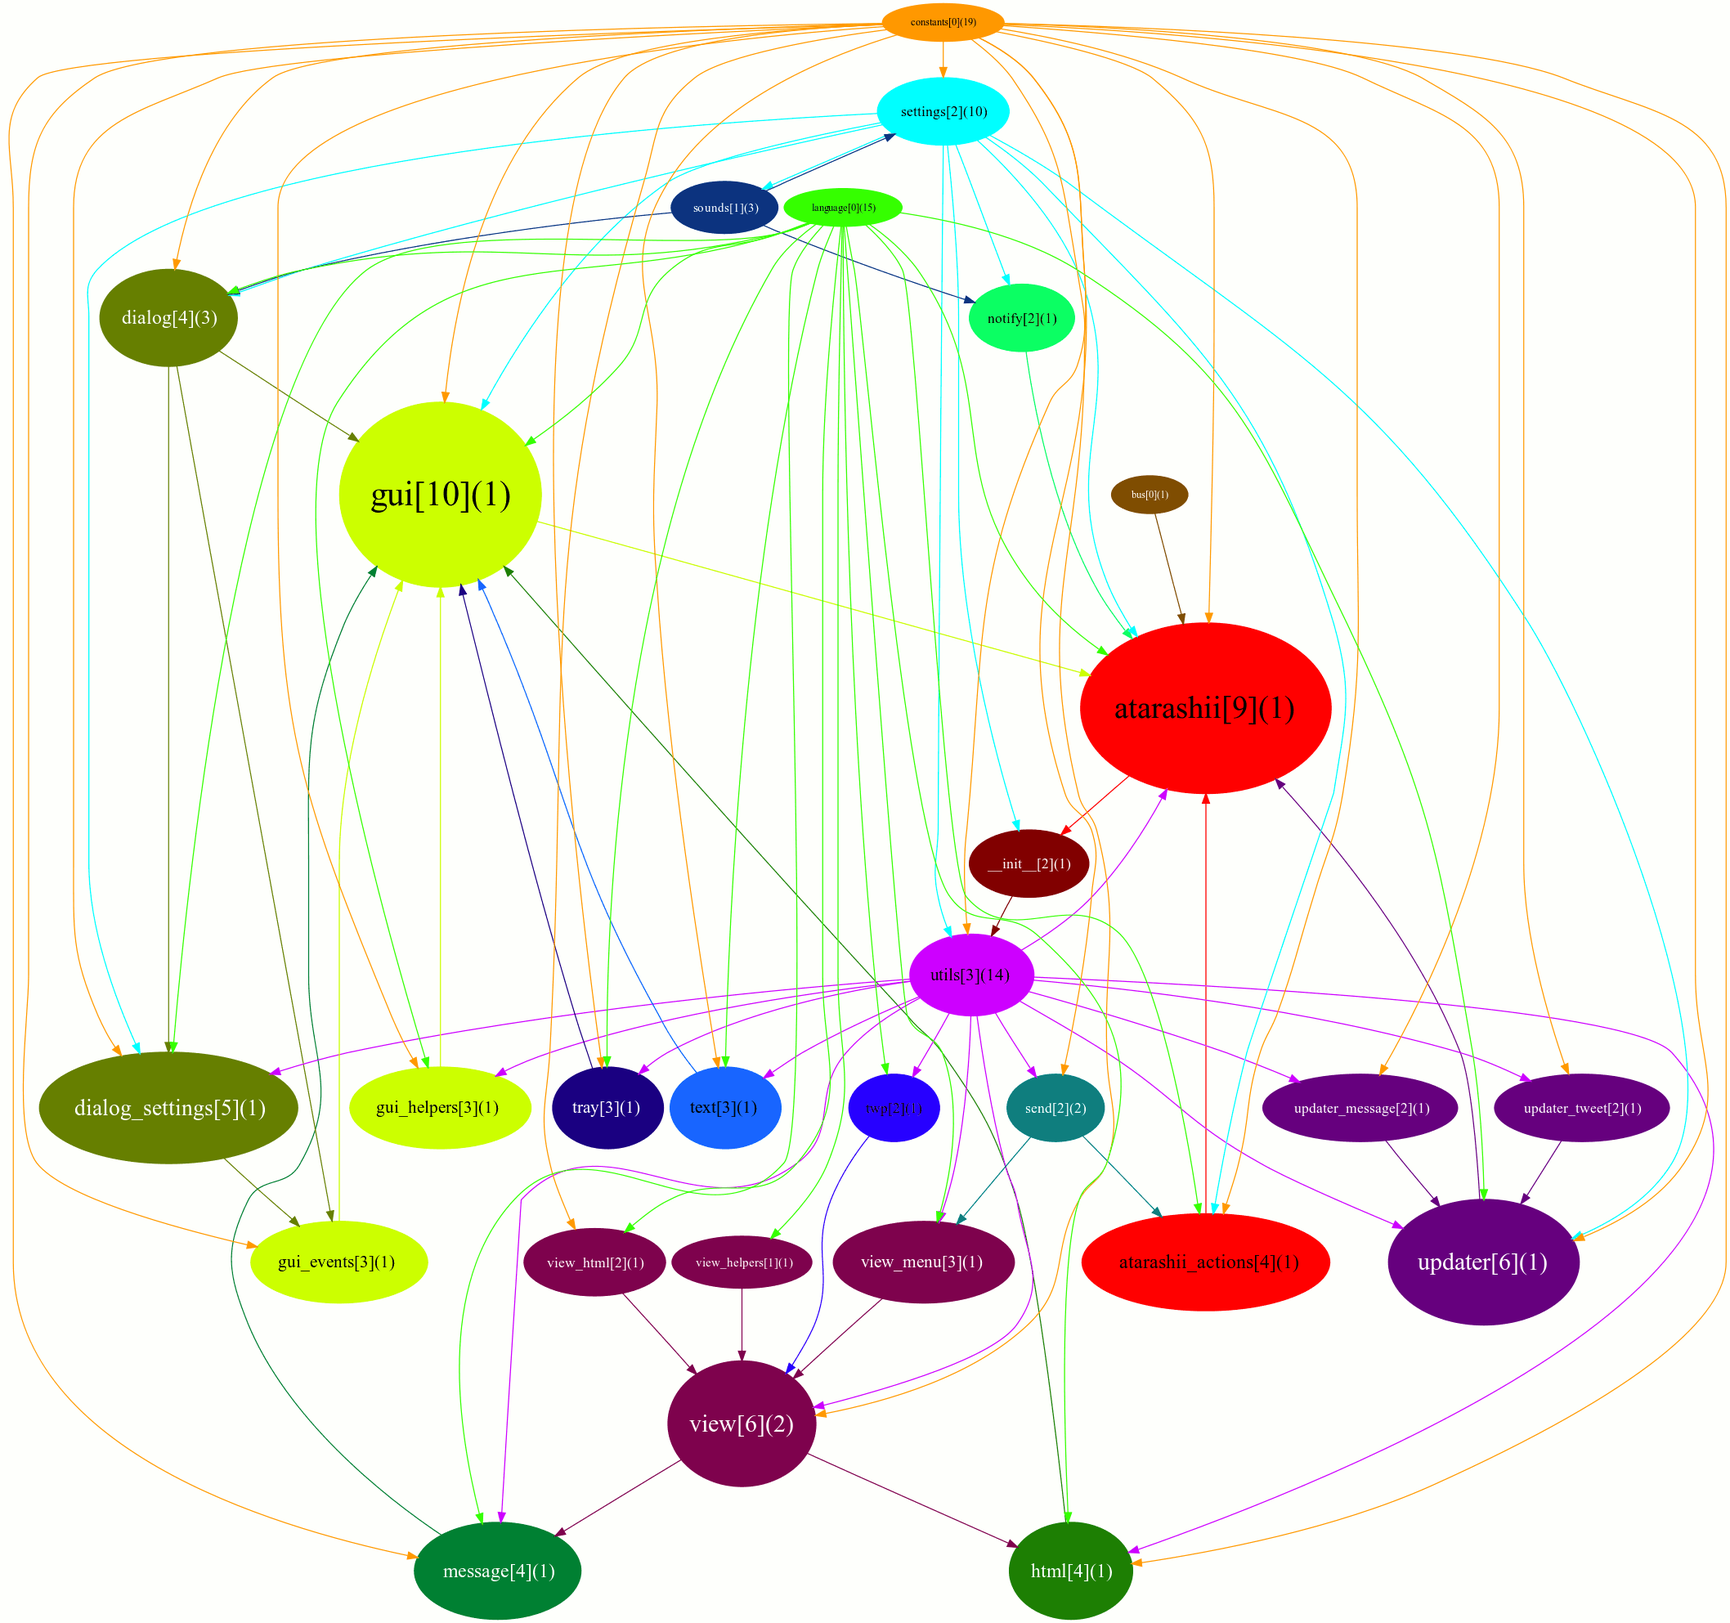
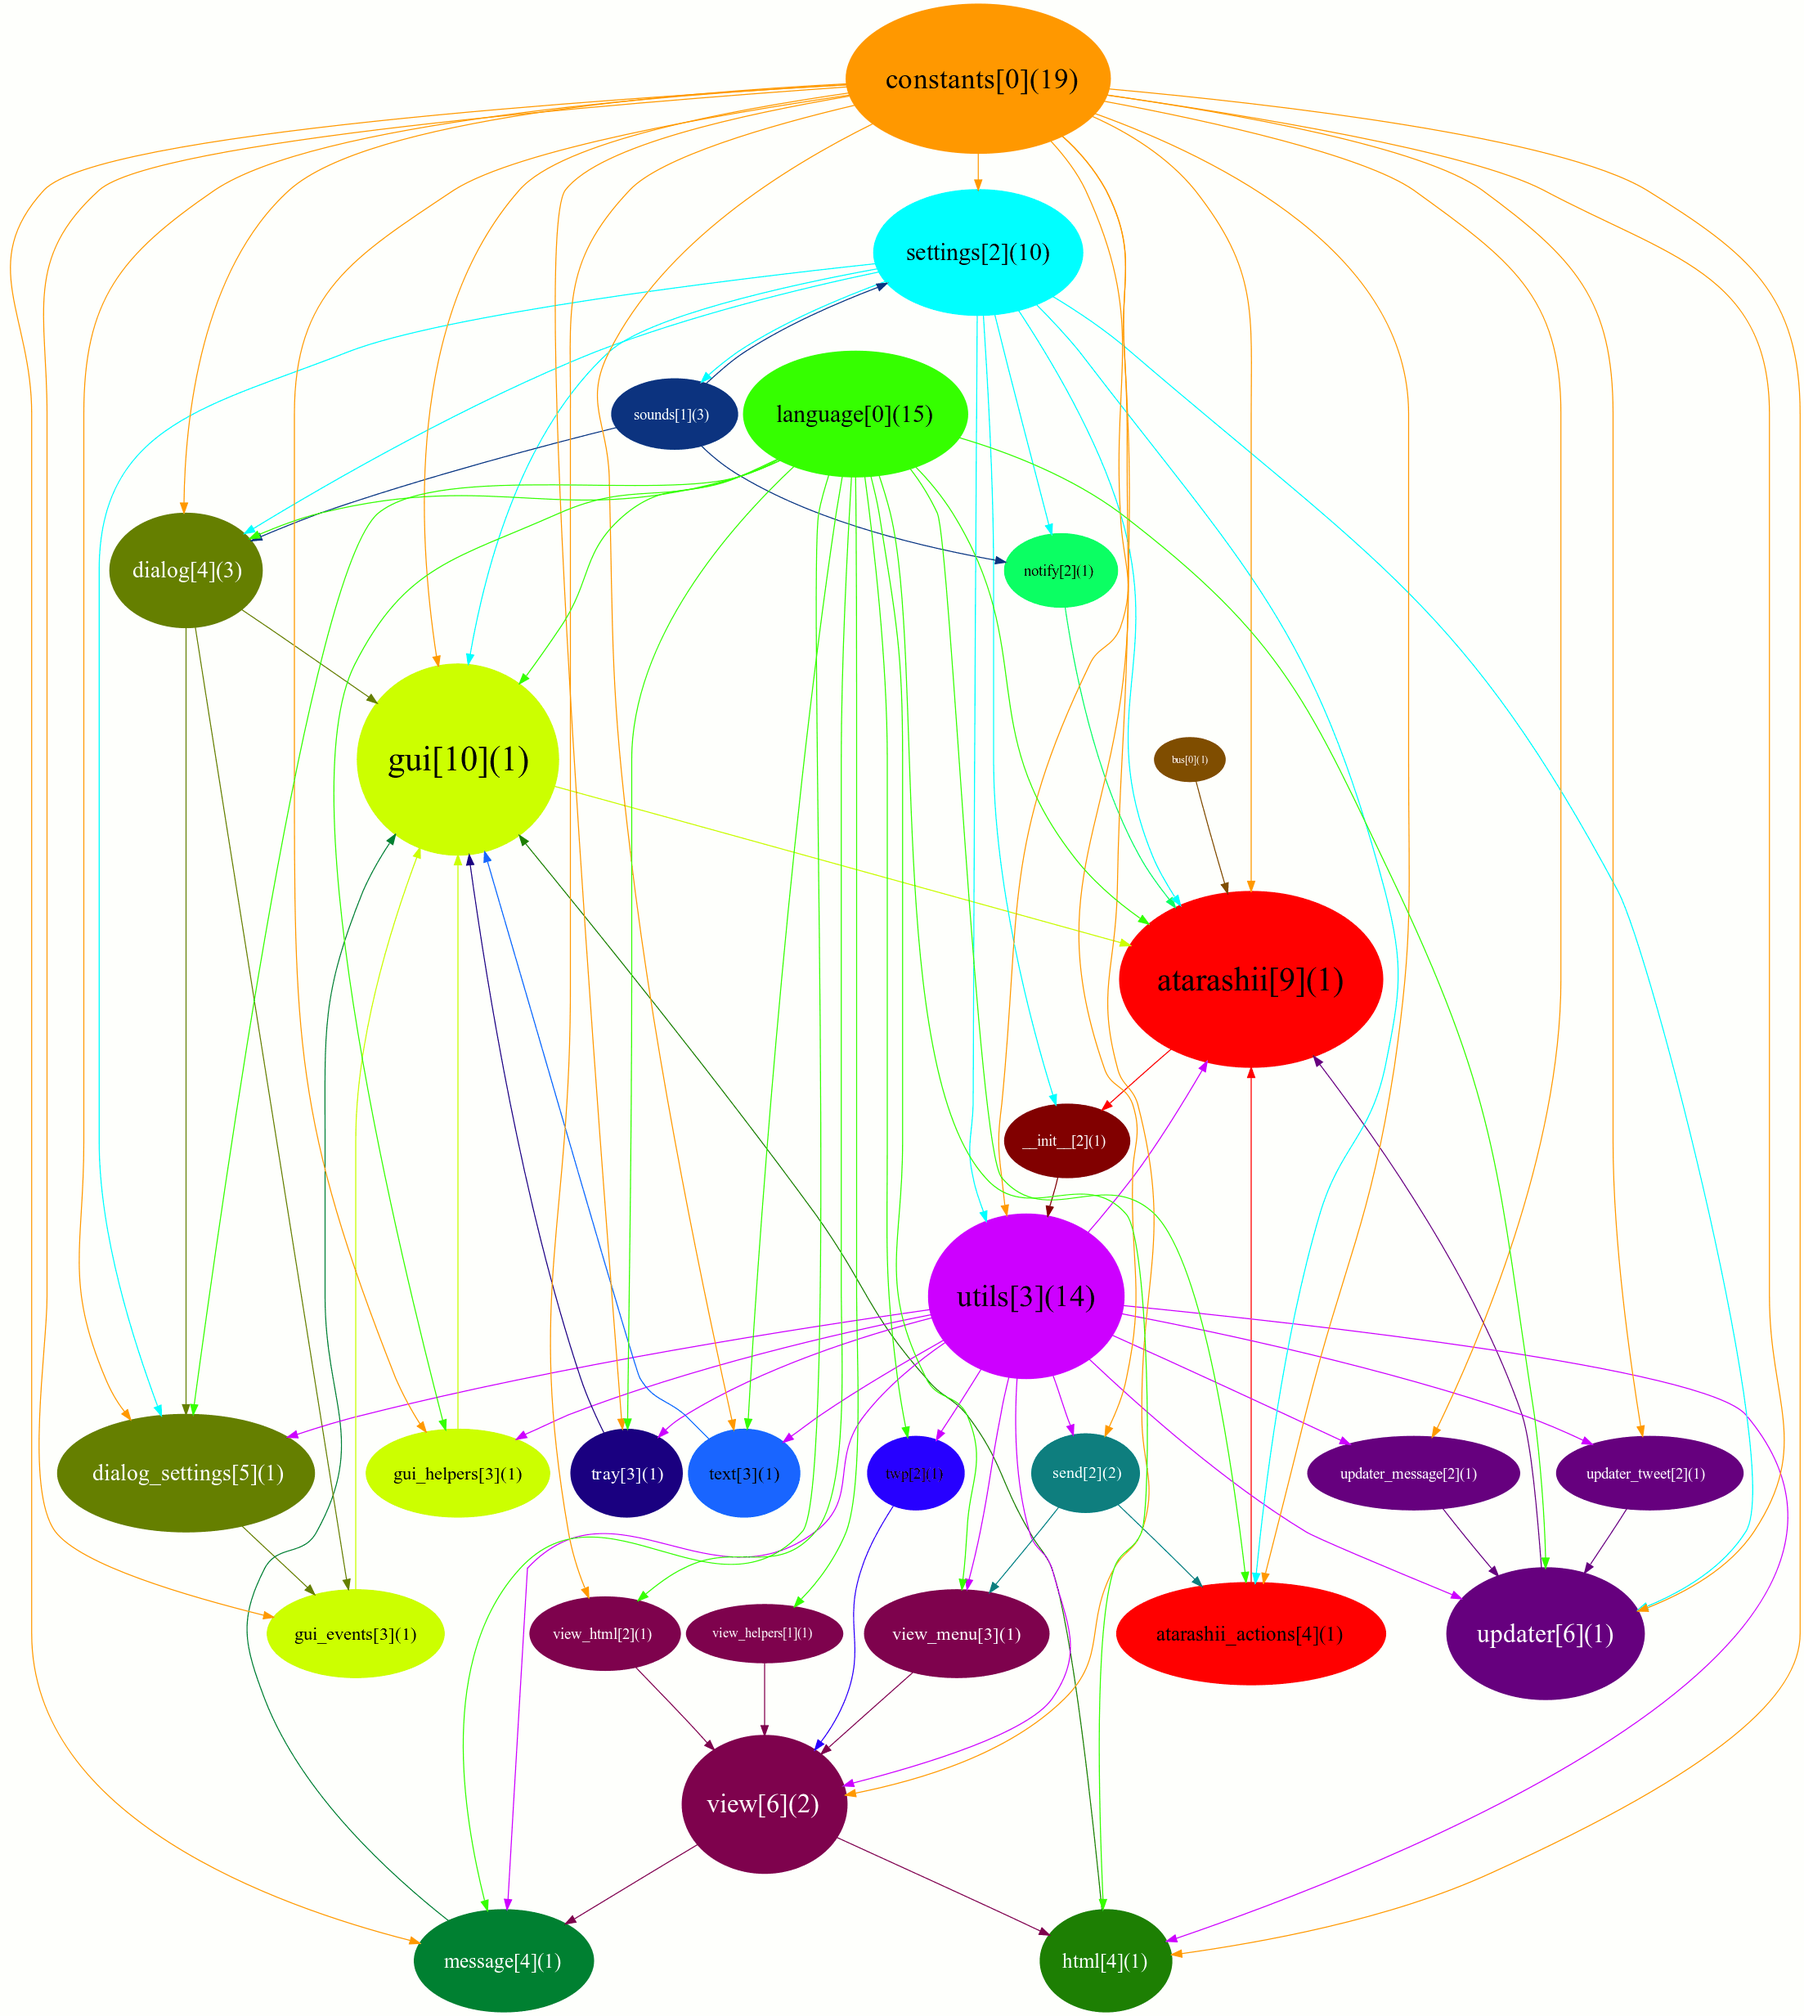
Update the example graphs.

diff --git a/readme.rst b/readme.rst
@@ -18,7 +18,7 @@ Examples::
 
 | **Examples of rendered graphs:**
 | Atarashii_
-| Python2.6_ (Warning 1.6MiB PNG!)
+| Python2.6_ (Warning 1.8MiB PNG!)
 | Tweepy_
 
 .. _Atarashii: http://github.com/BonsaiDen/pydep/blob/master/atarashii.png
